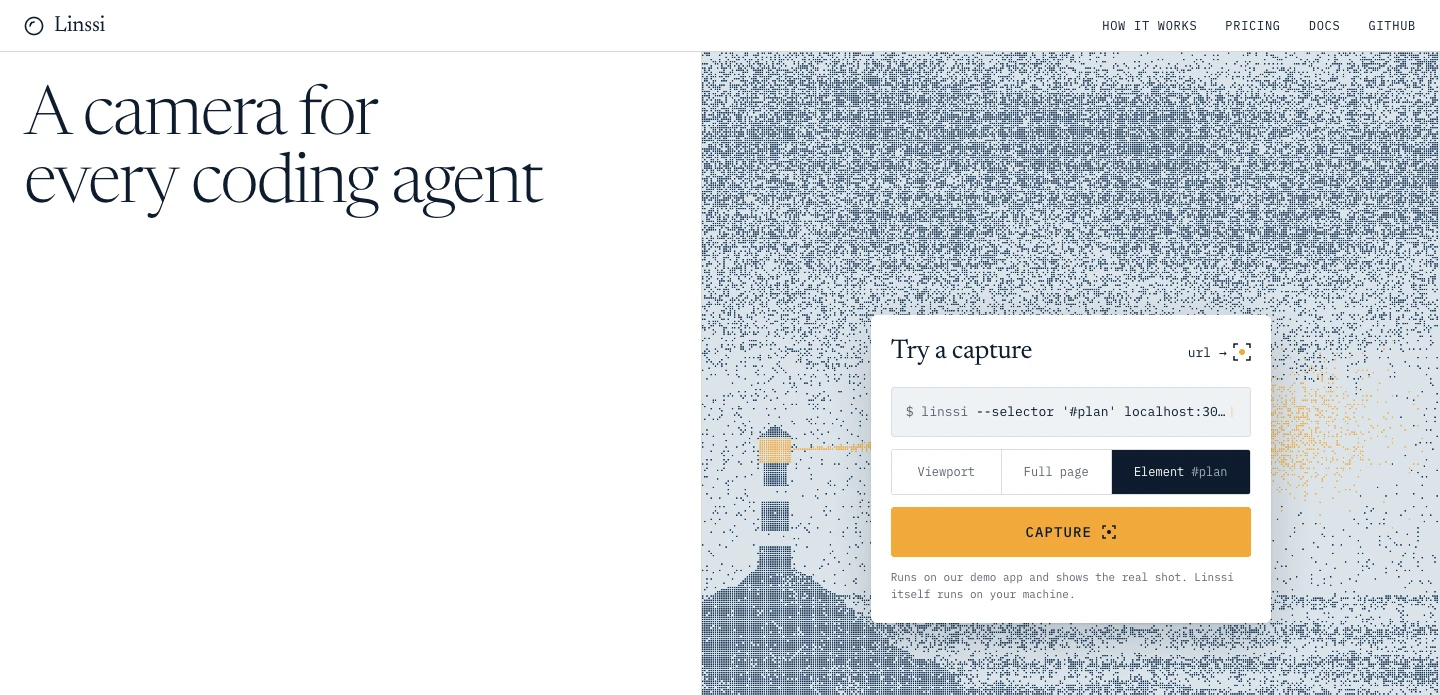
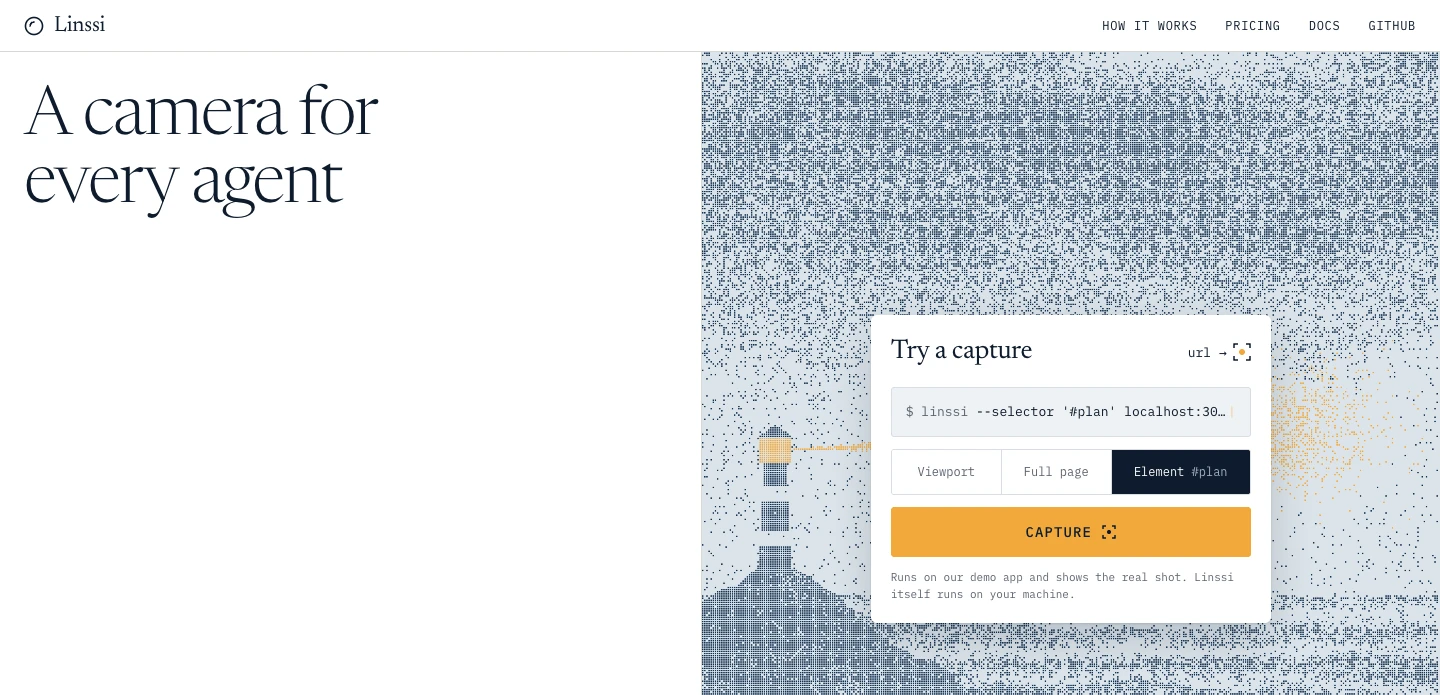
Call Linssi a camera for agents, not just coding agents
Linssi works for any agent that needs to see a page, so the CLI help,
MCP server instructions, README and website now say "agents". The site's
headline reads "A camera for every agent"; its tile thumbnails are
retaken to match.

Changed region(s): [[0.125, 0.2115, 0.375, 0.3022]]

diff --git a/site/index.html b/site/index.html
@@ -3,8 +3,8 @@
 <head>
 <meta charset="utf-8">
 <meta name="viewport" content="width=device-width, initial-scale=1, viewport-fit=cover">
-<title>Linssi — a camera for every coding agent</title>
-<meta name="description" content="Linssi gives coding agents sight. One call returns one screenshot of the real page, signed in, fully rendered, and sized so the model can read it.">
+<title>Linssi — a camera for every agent</title>
+<meta name="description" content="Linssi gives agents sight. One call returns one screenshot of the real page, signed in, fully rendered, and sized so the model can read it.">
 <meta name="theme-color" content="#FFFFFF">
 <link rel="preconnect" href="https://fonts.googleapis.com">
 <link rel="preconnect" href="https://fonts.gstatic.com" crossorigin>
@@ -222,8 +222,8 @@
 <main id="top">
   <section class="hero">
     <div class="text">
-      <h1>A camera for<br>every coding agent</h1>
-      <p class="mission">Coding agents write interfaces they cannot see. Linssi gives them sight: one call returns one screenshot of the real page, signed in, fully rendered, and sized so the model can read it.</p>
+      <h1>A camera for<br>every agent</h1>
+      <p class="mission">Agents work on pages they cannot see. Linssi gives them sight: one call returns one screenshot of the real page, signed in, fully rendered, and sized so the model can read it.</p>
     </div>
 
     <div class="art" role="img" aria-label="A stippled lighthouse at dusk; its amber beam lights the demo card.">
@@ -359,7 +359,7 @@ $ linssi --connect 9222 \
 <footer>
   <div>
     <div class="word">Linssi</div>
-    <p class="tagline">A camera for coding agents.</p>
+    <p class="tagline">A camera for agents.</p>
   </div>
   <nav aria-label="Footer">
     <a href="https://github.com/ashishra0/linssi">GitHub</a>

diff --git a/site/shots/demo.js b/site/shots/demo.js
@@ -12,7 +12,7 @@ window.LINSSI_DEMO = {
       "scale": 1,
       "mode": "viewport",
       "http_status": 200,
-      "elapsed_ms": 909,
+      "elapsed_ms": 1080,
       "tiles": 1
     }
   },
@@ -28,7 +28,7 @@ window.LINSSI_DEMO = {
       "scale": 1,
       "mode": "full_page",
       "http_status": 200,
-      "elapsed_ms": 1241,
+      "elapsed_ms": 1206,
       "tiles": 1
     }
   },
@@ -44,7 +44,7 @@ window.LINSSI_DEMO = {
       "scale": 2,
       "mode": "element",
       "http_status": 200,
-      "elapsed_ms": 993,
+      "elapsed_ms": 884,
       "tiles": 1
     }
   }

diff --git a/main.go b/main.go
@@ -1,4 +1,4 @@
-// Command linssi is the camera for coding agents: one command or MCP call
+// Command linssi is the camera for agents: one command or MCP call
 // returns one screenshot you can trust.
 package main
 
@@ -26,12 +26,12 @@ import (
 var version = "0.1.0" // set by the release build with -ldflags "-X main.version=..."
 
 const shortUsage = `Usage: linssi [flags] URL...    capture pages ("-" reads URLs from stdin)
-       linssi mcp [--connect PORT] serve the capture tool to coding agents
+       linssi mcp [--connect PORT] serve the capture tool to agents
        linssi browser              open a Chrome for logged-in captures
 Run 'linssi -h' for all flags and examples.
 `
 
-const help = `linssi — the camera for coding agents
+const help = `linssi — the camera for agents
 
 Usage:
   linssi [flags] URL...        capture pages ("-" reads URLs from stdin)

diff --git a/mcp.go b/mcp.go
@@ -19,7 +19,7 @@ import (
 // (~1.15 MP, ~1,600 tokens). Other clients have similar caps.
 const defaultMaxPixels = 1_150_000
 
-const instructions = "Linssi is a camera for coding agents. Call capture for one page or element at a time. " +
+const instructions = "Linssi is a camera for agents. Call capture for one page or element at a time. " +
 	"It returns the image inline (tall full pages come back as top-to-bottom tiles) and writes a file only when output is set. " +
 	"Read the warnings: a login redirect means pass storage_state or headers, or start the server with --connect."
 

diff --git a/README.md b/README.md
@@ -1,6 +1,6 @@
 # linssi
 
-A camera for coding agents. One command or MCP call returns one screenshot you can trust: the real page, logged in, fully rendered, and sized so the model can read it.
+A camera for agents. One command or MCP call returns one screenshot you can trust: the real page, logged in, fully rendered, and sized so the model can read it.
 
 ```
 linssi example.com                          # 1440×900 @2x → example.com.png
